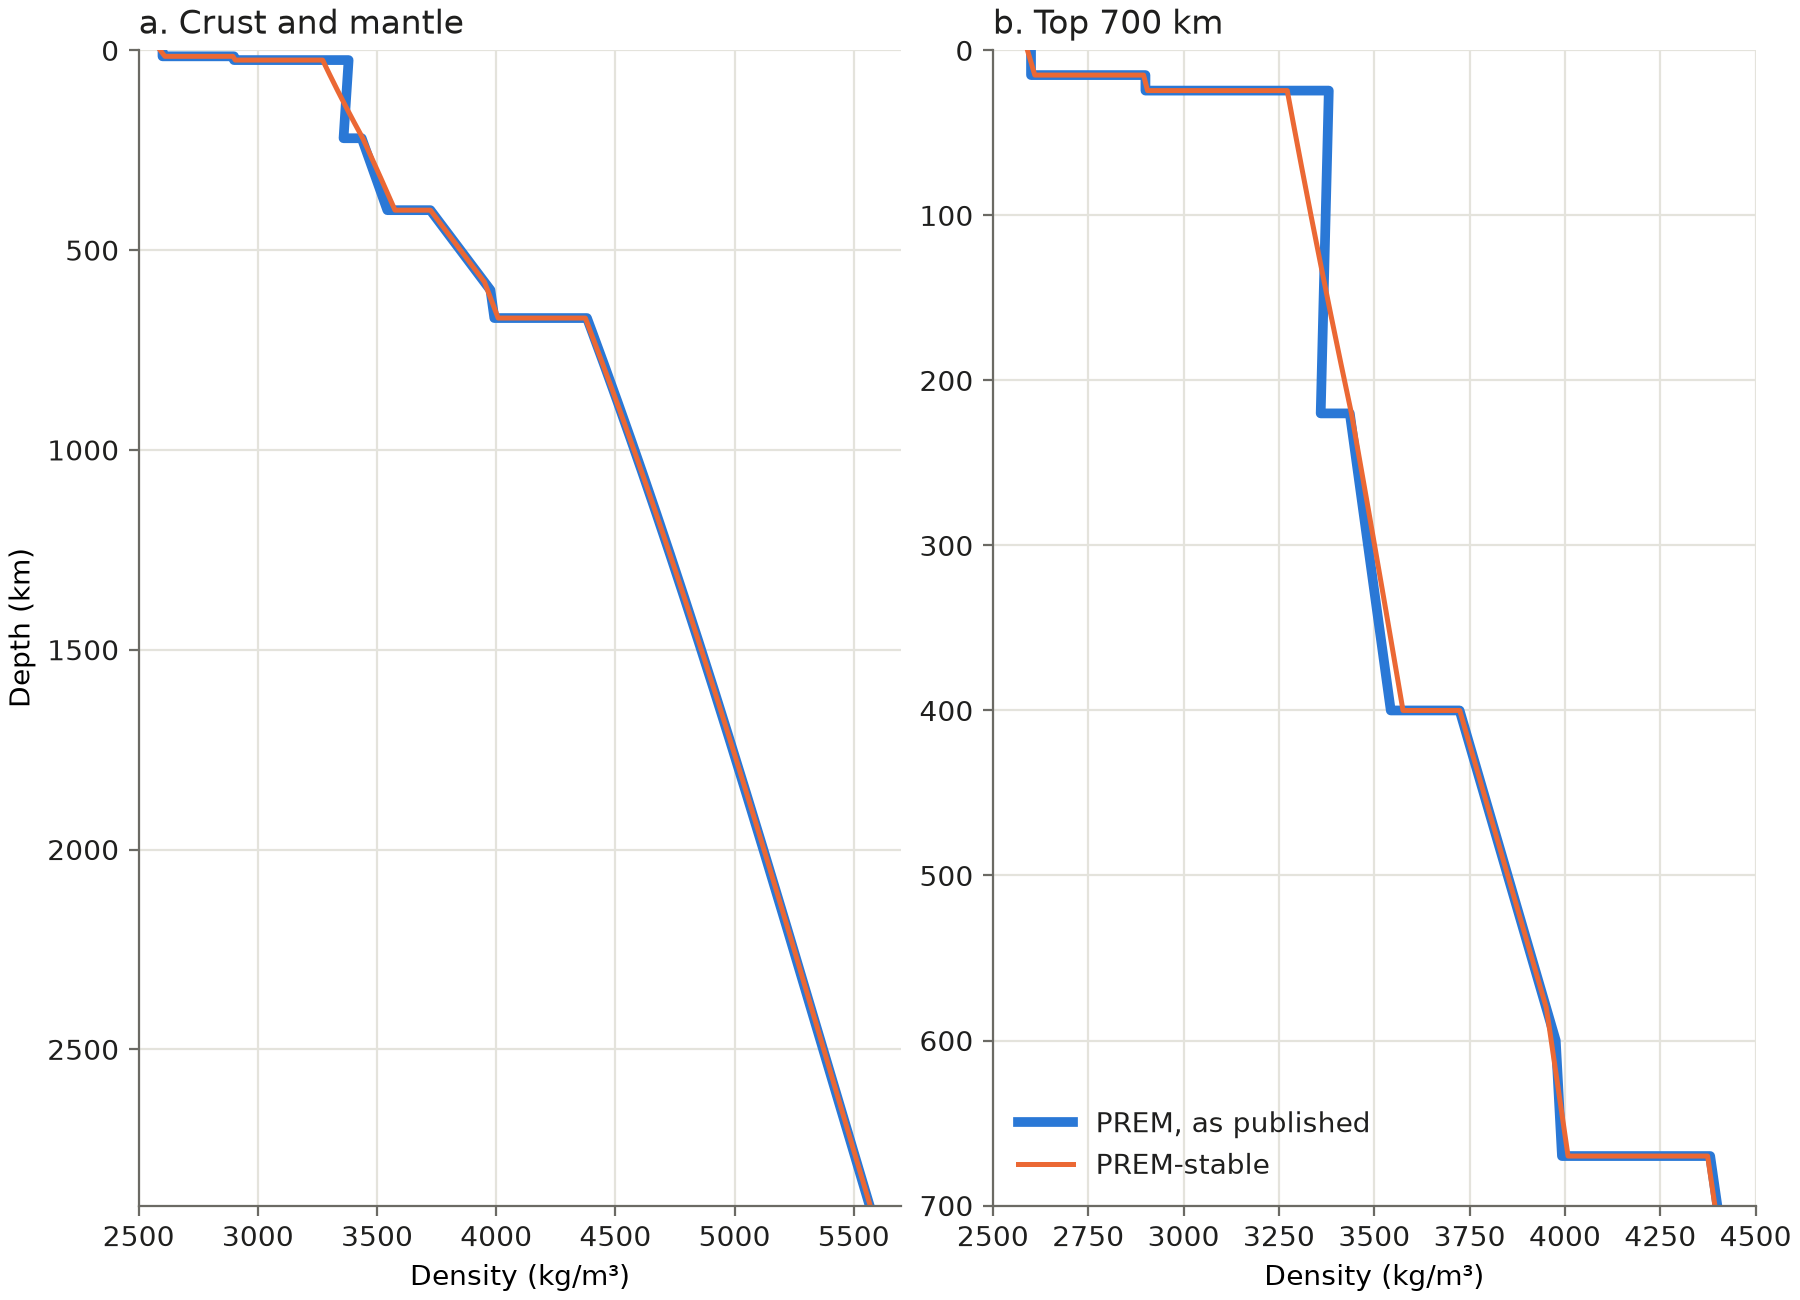
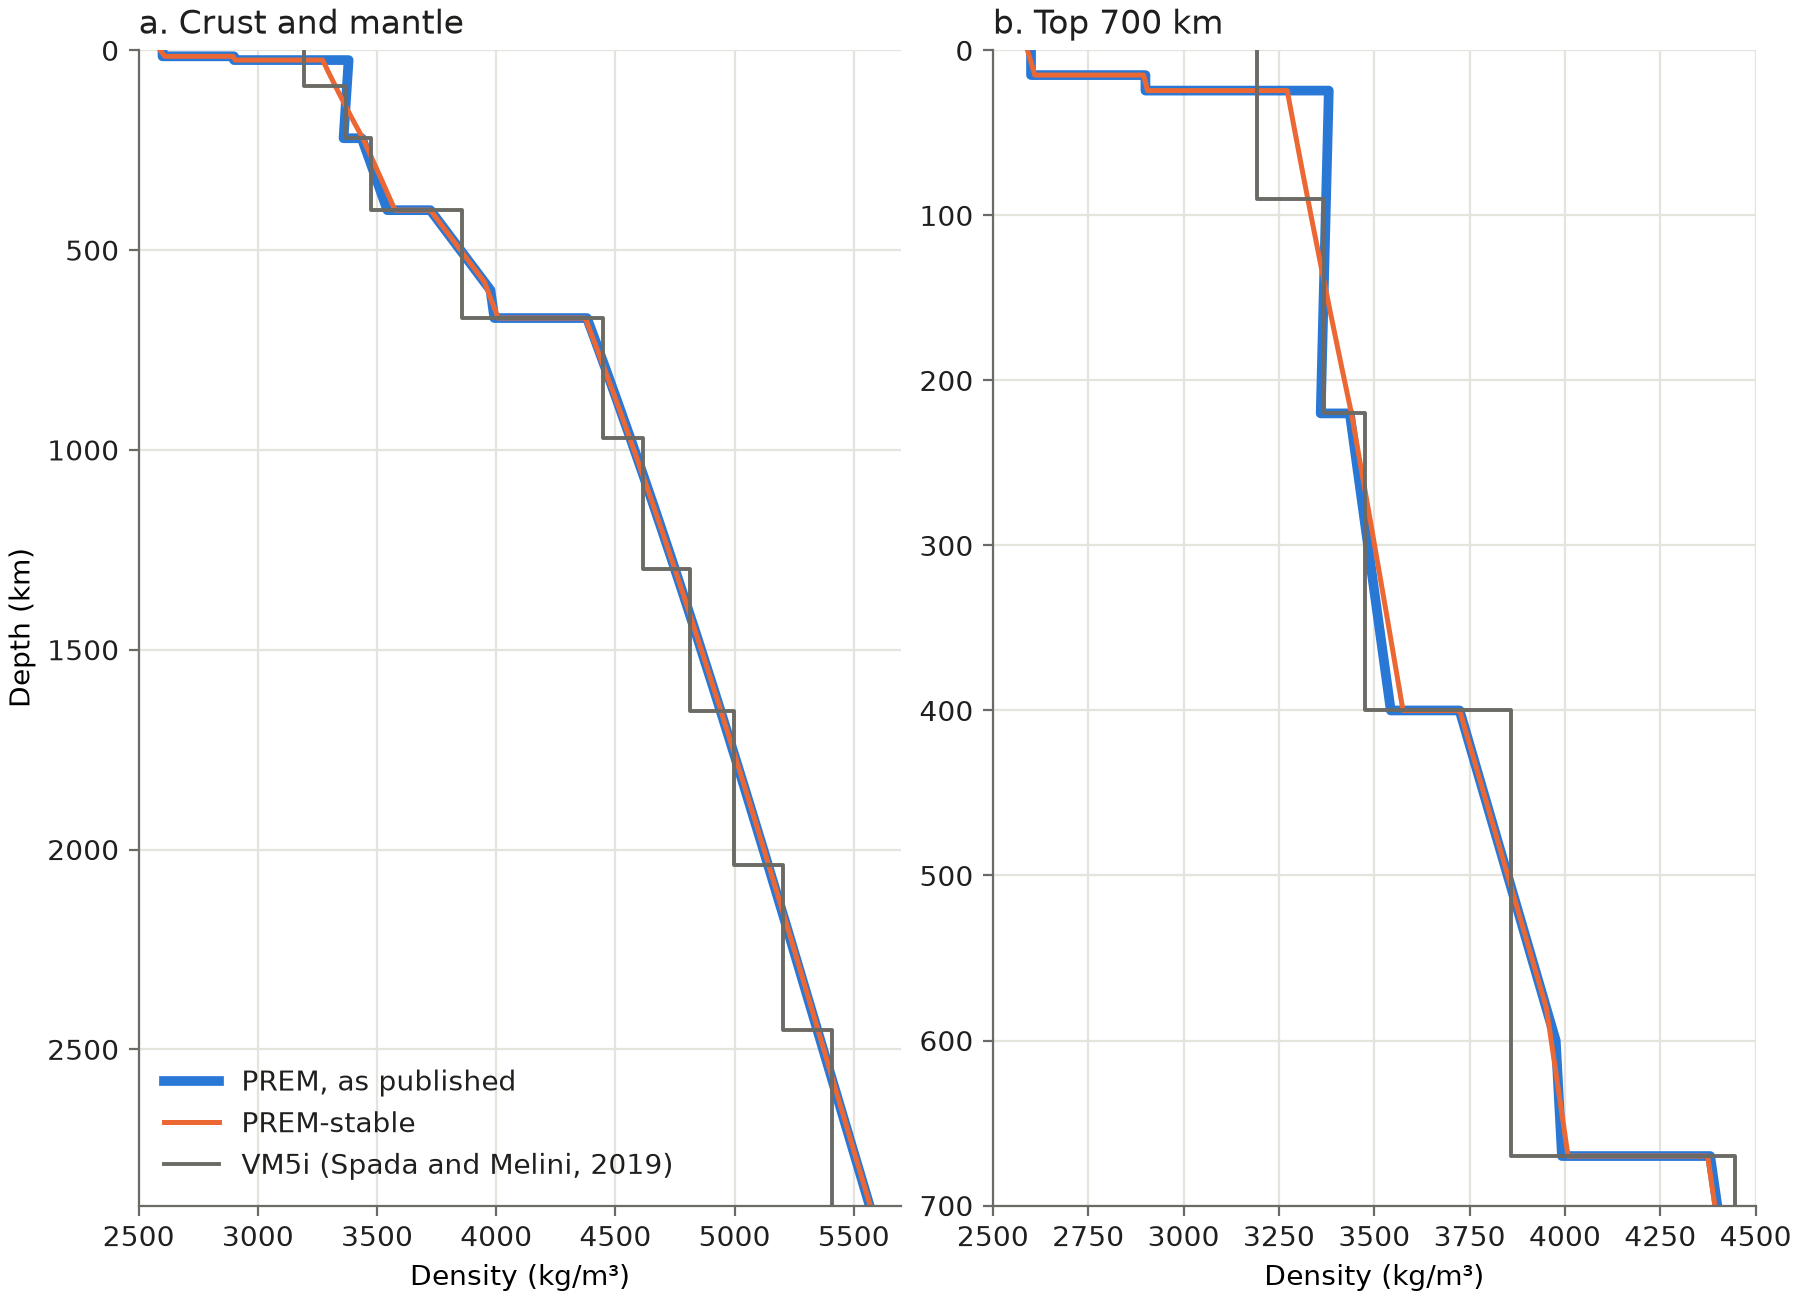
Add VM5i of Spada and Melini (2019) to the density figure
VM5i_Spada_Melini_2019.csv holds Table 2 of Spada and Melini (2019), the
11-layer model used in SELEN4, checked against the published PDF. The
density figure shows it as a grey step profile next to PREM and PREM-stable.
The caption in METHOD.md now notes that VM5i is 0.4 to 0.8 per cent lighter
than PREM below 220 km and that its uniform layers are stable only in an
incompressible model. README.md describes the file and its units.

Generated-with: Claude Code

diff --git a/plot_density.py b/plot_density.py
@@ -1,8 +1,10 @@
-"""Plot the density of PREM and of PREM-stable, the simplest view of the change.
+"""Plot the density of PREM, of PREM-stable and of VM5i, the simplest view of the change.
 
 PREM is the density as published. PREM-stable is the density that the fit in
 `build_prem_stable.py` gives: the profile closest to PREM that is stable
-everywhere in the crust and the mantle. Two panels:
+everywhere in the crust and the mantle. VM5i is the 11-layer model of Spada
+and Melini (2019, Table 2), a volume average of PREM in uniform layers that is
+used in incompressible GIA codes. It is drawn for comparison only. Two panels:
 
 - a. the whole crust and mantle, 0 to 2891 km. At this scale the two profiles
   differ visibly only above 400 km, which shows how small the change is
@@ -10,7 +12,8 @@ everywhere in the crust and the mantle. Two panels:
 - b. the top 700 km, where the change is largest: the density inversion of
   PREM between 24.4 and 220 km becomes a density that increases with depth.
 
-The core is not plotted, because it is the same in both models.
+The core is not plotted. It is the same in PREM and PREM-stable, and its
+density is far outside the plotted range.
 
 Run from this directory with the project Python. Writes prem_density.png.
 """
@@ -27,6 +30,10 @@ HERE = pathlib.Path(__file__).resolve().parent
 # checked for colour-blind separation and contrast against a light background.
 C_PREM = "#2a78d6"      # blue, PREM as published
 C_STABLE = "#eb6834"    # orange, PREM-stable
+# VM5i is a reference and not one of the two models of this repository, so it
+# gets a neutral grey and not a third categorical colour. The grey has a
+# contrast of about 5:1 against the white background.
+C_VM5I = "#6b6a64"      # grey, VM5i of Spada and Melini (2019)
 INK, MUTED, GRID = "#1f1f1e", "#6b6a64", "#e4e3dc"
 CMB_KM = 2891.0         # core-mantle boundary
 ZOOM_KM = 700.0         # depth range of the right panel
@@ -35,6 +42,28 @@ ZOOM_KM = 700.0         # depth range of the right panel
 def read(name):
     """Read one of the CSV models as a structured array, centre outward."""
     return np.genfromtxt(HERE / name, delimiter=",", names=True)
+
+
+def read_vm5i():
+    """Read the VM5i layers and return them as a step profile for `plot`.
+
+    The file holds one row per layer, from the surface down, with the depth of
+    the top and the bottom of each layer in km and one density in kg/m^3. The
+    density is constant inside a layer, so each layer becomes a vertical
+    segment, and consecutive segments join with a horizontal step at the
+    layer boundary. The core row is left out.
+
+    Returns
+    -------
+    (rho, depth)
+        Arrays for `plot(rho, depth)`, two points per layer.
+    """
+    t = np.genfromtxt(HERE / "VM5i_Spada_Melini_2019.csv", delimiter=",",
+                      names=True, dtype=None, encoding="utf-8")
+    t = t[t["layer"] != "Core"]
+    rho = np.repeat(t["density_kg_m3"], 2)
+    depth = np.column_stack([t["depth_top_km"], t["depth_bottom_km"]]).ravel()
+    return rho, depth
 
 
 def style(ax):
@@ -59,6 +88,7 @@ def main():
     z = depth[mantle]
     rho_p = p["rho_kg_m3"][mantle]      # kg/m^3
     rho_s = s["rho_kg_m3"][mantle]      # kg/m^3
+    rho_v, z_v = read_vm5i()            # kg/m^3 and km, step profile
 
     fig, ax = plt.subplots(1, 2, figsize=(9, 6.5), constrained_layout=True)
     panels = [(ax[0], CMB_KM, (2500, 5700), "a. Crust and mantle"),
@@ -68,11 +98,17 @@ def main():
         # of PREM-stable where the two lines coincide.
         a.plot(rho_p, z, color=C_PREM, lw=3.5, label="PREM, as published")
         a.plot(rho_s, z, color=C_STABLE, lw=1.8, label="PREM-stable")
+        # VM5i on top, thin, so its steps stay visible where they cross the
+        # two smooth profiles.
+        a.plot(rho_v, z_v, color=C_VM5I, lw=1.4,
+               label="VM5i (Spada and Melini, 2019)")
         a.set(xlim=xlim, ylim=(bottom, 0), xlabel="Density (kg/m³)")
         a.set_title(title, loc="left", color=INK)
         style(a)
     ax[0].set_ylabel("Depth (km)")
-    ax[1].legend(frameon=False, loc="lower left", labelcolor=INK)
+    # The lower left of panel a is empty: below 1000 km all three profiles
+    # are denser than 4600 kg/m^3, on the right of the panel.
+    ax[0].legend(frameon=False, loc="lower left", labelcolor=INK)
 
     out = HERE / "prem_density.png"
     fig.savefig(out, dpi=200)

diff --git a/README.md b/README.md
@@ -29,7 +29,8 @@ attenuation and no viscosity.
 | `PREM.csv` | PREM from the Table I polynomials |
 | `PREM-stable.csv` | The stable model, on the same nodes as `PREM.csv` |
 | `METHOD.md` | The reasons, the method, the result and the column format |
-| `prem_density.png` | The density of the two models |
+| `VM5i_Spada_Melini_2019.csv` | The 11-layer model VM5i, for comparison only |
+| `prem_density.png` | The density of PREM, PREM-stable and VM5i |
 | `prem1981.py` | The Table I coefficients and a function that evaluates them |
 | `build_prem_stable.py` | Calculates the stable density and writes both CSV files |
 | `plot_density.py` | Plots `prem_density.png` |
@@ -53,6 +54,22 @@ attenuation and no viscosity.
   regions has two rows at the same radius. The fit is done on these nodes, so
   the stability condition holds for the file as it is written.
 
+## Comparison model
+
+`VM5i_Spada_Melini_2019.csv` is the Earth model VM5i of Spada and Melini
+(2019), Table 2. It has 11 layers of constant density, rigidity and viscosity,
+and it is the test model of the sea-level code SELEN4. The values were typed
+from Table 2 and checked against the published PDF. The paper is published
+under the Creative Commons Attribution 4.0 License.
+
+The rows go from the surface down. Radius and depth are in km and density is
+in kg/m³. Rigidity is in units of 1e11 Pa and viscosity in units of 1e21 Pa s.
+The viscosity of the elastic lithosphere is written `inf`. The depth columns
+are 6371 km minus the radii.
+
+`prem_density.png` shows VM5i for comparison. No file in this repository is
+built from it.
+
 ## Build the files
 
 The scripts need Python 3, NumPy, SciPy and Matplotlib. Run them from this
@@ -68,7 +85,12 @@ stability measure, the total mass, the surface gravity and the density jumps,
 and it writes `PREM.csv` and `PREM-stable.csv`. `plot_density.py` writes
 `prem_density.png`.
 
-## Reference
+## References
 
 Dziewonski, A. M. and Anderson, D. L. (1981). Preliminary reference Earth
 model. *Physics of the Earth and Planetary Interiors* 25, 297–356.
+
+Spada, G. and Melini, D. (2019). SELEN4 (SELEN version 4.0): a Fortran program
+for solving the gravitationally and topographically self-consistent sea-level
+equation in glacial isostatic adjustment modeling. *Geoscientific Model
+Development* 12, 5055–5075. https://doi.org/10.5194/gmd-12-5055-2019

diff --git a/METHOD.md b/METHOD.md
@@ -142,11 +142,16 @@ super-adiabatic ($e = 1$). The correction changes the crust by about
 
 ## The result
 
-![Density of PREM and PREM-stable](prem_density.png)
+![Density of PREM, PREM-stable and VM5i](prem_density.png)
 
-*Density of PREM as published (blue) and of PREM-stable (orange). a. The crust
-and the mantle, 0 to 2891 km. b. The top 700 km, where the change is largest.
-Where the two models agree, the orange line lies on the blue line.*
+*Density of PREM as published (blue), of PREM-stable (orange) and of VM5i
+(grey; Spada and Melini, 2019, Table 2). a. The crust and the mantle, 0 to
+2891 km. b. The top 700 km, where the change is largest. Where PREM and
+PREM-stable agree, the orange line lies on the blue line. VM5i averages PREM
+over 11 layers of constant density. Below 220 km its density is 0.4 to 0.8 per
+cent lower than PREM. A layer of constant density is stable only in an
+incompressible model. In a compressible model it is steeper than the adiabatic
+gradient ($e = 1$), so VM5i is not stable in a compressible code.*
 
 | Depth (km) | Density change (kg/m³) |
 |---|---|
@@ -220,6 +225,11 @@ compressible earth models. *Geophysical Journal International* 235, 2231–2256.
 
 Plag, H.-P. and Jüttner, H.-U. (1995). Rayleigh–Taylor instabilities of a
 self-gravitating Earth. *Journal of Geodynamics* 20, 267–288.
+
+Spada, G. and Melini, D. (2019). SELEN4 (SELEN version 4.0): a Fortran program
+for solving the gravitationally and topographically self-consistent sea-level
+equation in glacial isostatic adjustment modeling. *Geoscientific Model
+Development* 12, 5055–5075. https://doi.org/10.5194/gmd-12-5055-2019
 
 Vermeersen, L. L. A. and Mitrovica, J. X. (2000). Gravitational stability of
 spherical self-gravitating relaxation models. *Geophysical Journal
